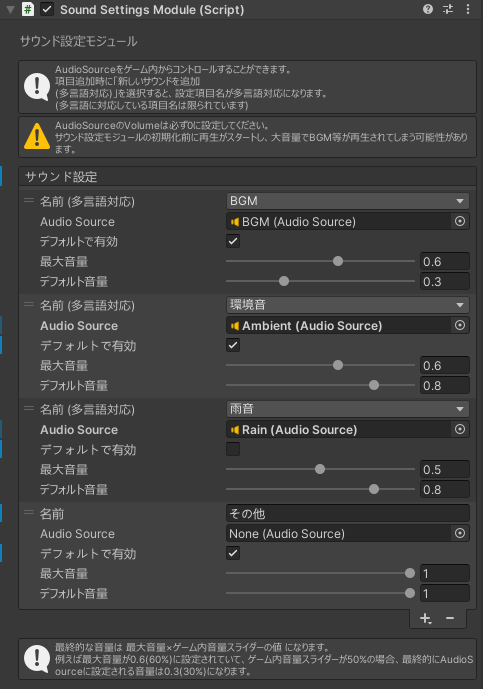
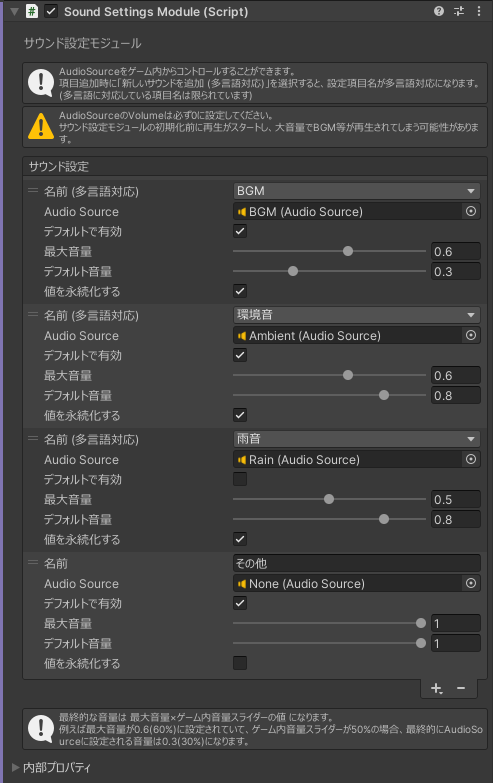
docs: 内容を更新

diff --git a/pages/docs/wim-modules/settings/lighting.md b/pages/docs/wim-modules/settings/lighting.md
@@ -23,6 +23,9 @@ PostProcessのBloomの強さを変更することができます。
 ### DirectionalLight (アバター)
 アバターへのライティングの強さを変更することができます。
 
+## 設定の永続化について (Persistence)
+ナイトモードを除く、各設定欄にある「値を永続化する」にチェックをつけることで、設定を永続化することができます。  
+
 ## PostProcessのセットアップ {#post-process}
 - [自動でセットアップを行う](#auto-setup)
 - [手動で設定する](#manual-setup)

diff --git a/pages/docs/wim-modules/settings/sound.md b/pages/docs/wim-modules/settings/sound.md
@@ -32,3 +32,6 @@ AudioSourceのVolumeの最大音量を設定します。
 最終的にAudioSourceのVolumeに設定される値は `最大音量 * ゲーム内音量スライダーの値` になります。  
 例えば最大音量が0.6(60%)に設定されていて、ゲーム内音量スライダーが50%の場合、最終的にAudioSourceのVolumeに設定される値は0.3(30%)になります。
 :::
+
+### 値を永続化する
+ゲーム内音量スライダーの値を永続化するかどうかを設定します。  

diff --git a/pages/docs/wim-modules/settings/switch.md b/pages/docs/wim-modules/settings/switch.md
@@ -24,3 +24,6 @@ title: スイッチモジュール
 
 #### デフォルトで有効
 初期状態でオブジェクトを有効にするかどうかを設定します。
+
+#### 値を永続化する
+オブジェクトの有効状態を永続化するかどうかを設定します。
